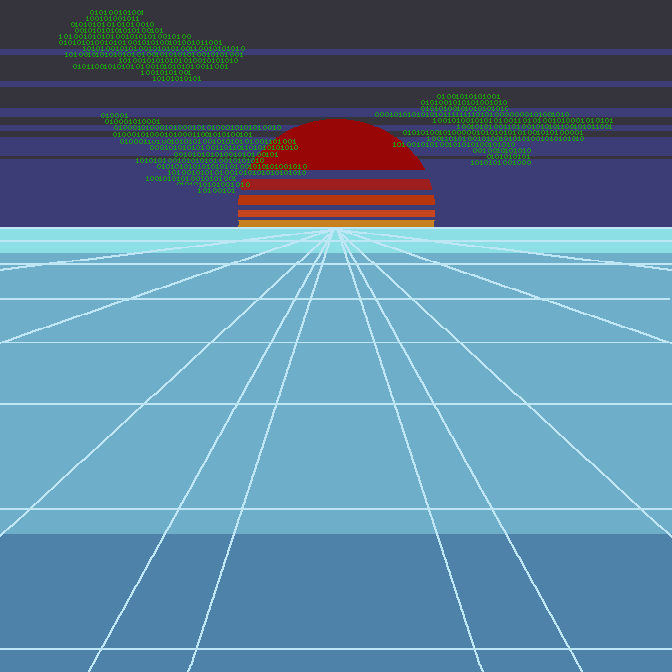
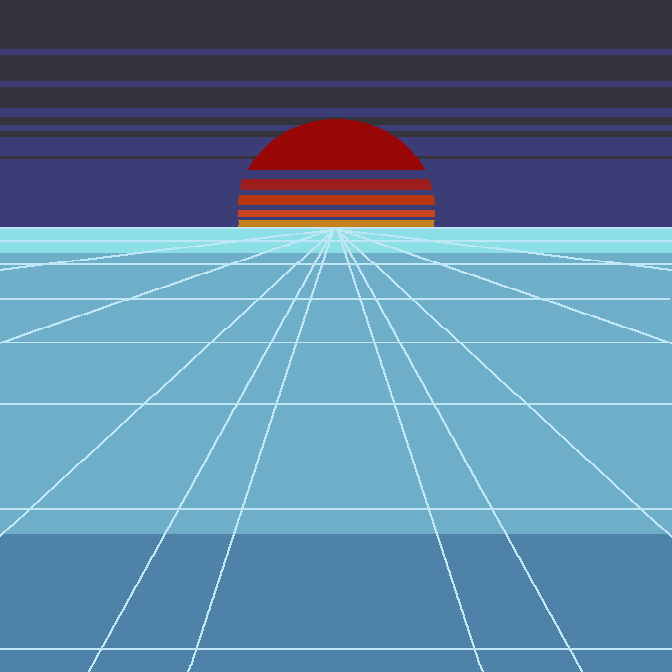
Animação das nuvens adicionada

Changed region(s): [[0.5938, 0.125, 0.9062, 0.25], [0.1562, 0.1562, 0.4375, 0.2812], [0.0938, 0.0, 0.375, 0.125]]

diff --git a/main.py b/main.py
@@ -103,34 +103,39 @@ def main():
     # variavel para nao permitir atirar varias vezes ao mesmo tempo
     cooldown = 0
     # Variavel para controlar se o energético está ativado
-    energy=False
+    energy = False
     # Variavel para controlar o tempo de uso do energético
     timer = 100
-    
+
+    # coordenada x das nuvens
+    clouds_x = 0
+
+    # comprimento da tela
+    width = 672
+
     while True:
         from menu import Screens
         cooldown -= 1  # esfriar o inseticida
-        timer +=1 
+        timer += 1
         for event in pg.event.get():
             if event.type == pg.QUIT:
                 pg.quit()
                 sys.exit()
             #
             if event.type == pg.MOUSEBUTTONDOWN and cooldown <= 0:
-                
+
                 bala = Projectile(player)
                 all_bullets.append(bala)
-                cooldown = bala.cooldown(cooldown,energy)
-                if energy == True and timer>=150:
+                cooldown = bala.cooldown(cooldown, energy)
+                if energy == True and timer >= 150:
                     energy = False
-                    
+
                 spray_sound.play()
             if event.type == pg.KEYDOWN:
-                if event.key == pg.K_SPACE and itens_coletados['energy_drink']>=3:
-                    energy=True
-                    timer=0
-                    itens_coletados['energy_drink']=0
-          
+                if event.key == pg.K_SPACE and itens_coletados['energy_drink'] >= 3:
+                    energy = True
+                    timer = 0
+                    itens_coletados['energy_drink'] = 0
 
         #
         for balas in all_bullets:  # movimento do gas na tela
@@ -138,6 +143,12 @@ def main():
 
         # Faz o background aparecer
         screen.blit(pg.image.load(Path('assets', 'background.png')), (0, 0))
+
+        # Faz a animação das nuvens
+        screen.blit(pg.image.load(Path('assets', 'clouds.png')), (clouds_x, 0))
+        if (clouds_x >= width):
+            clouds_x = -width
+        clouds_x += 3
 
         all_items.draw(screen)
         all_sprites.draw(screen)
@@ -159,7 +170,7 @@ def main():
                     'esquerda': None, 'direita': None, 'em cima': None, 'embaixo': None}
                 bug = Bug(x, y)
                 all_bugs.append(bug)
-        #desenha os bugs e impede a sobreposição dos bugs
+        # desenha os bugs e impede a sobreposição dos bugs
         for um_bug in all_bugs:
             um_bug.trace(screen)
             um_bug.update(player, identificar_posicao_bug)
@@ -175,9 +186,9 @@ def main():
                         um_bug.y += 10
                     elif um_bug.y < i.y:
                         um_bug.y -= 10
-        
-            Bug.vel(um_bug,itens_coletados)
-            live_points.update_vida(player,um_bug)
+
+            Bug.vel(um_bug, itens_coletados)
+            live_points.update_vida(player, um_bug)
 
         # Destruindo os projéteis e os bugs quando entram em colisãoAWW
         remove_bullets = []
@@ -218,7 +229,8 @@ def main():
         text_bugs = font_game.render(
             f'X {itens_coletados["bugs"]}', 1, branco)
         # Pontuação:Um bug  vale 1 ponto e cada bit vale 5 pontos
-        pontos = (itens_coletados["bit_0"] + itens_coletados["bit_1"])*5 + itens_coletados["bugs"]
+        pontos = (
+            itens_coletados["bit_0"] + itens_coletados["bit_1"])*5 + itens_coletados["bugs"]
         text_pontuacao = font_game.render(
             f'Pontuação: {pontos}', 1, branco)
 
@@ -226,19 +238,18 @@ def main():
         screen.blit(pg.transform.scale(pg.image.load(
             Path('assets', 'bug_simples.png')), (40, 35)), (20, 65))
         screen.blit(text_bugs, (70, 75))
-        if itens_coletados['energy_drink']==0:
-          screen.blit(pg.transform.scale(pg.image.load(
-              Path('assets', 'battery-0.png')), (90, 90)), (5, 85))
-        elif itens_coletados['energy_drink']==1:
-          screen.blit(pg.transform.scale(pg.image.load(
-              Path('assets', 'battery-1.png')), (90, 90)), (5, 85))
-        elif itens_coletados['energy_drink']==2:
-          screen.blit(pg.transform.scale(pg.image.load(
-              Path('assets', 'battery-2.png')), (90, 90)), (5, 85))
-        elif itens_coletados['energy_drink']>=3:
-          screen.blit(pg.transform.scale(pg.image.load(
-              Path('assets', 'battery-3.png')), (90, 90)), (5, 85))
-        
+        if itens_coletados['energy_drink'] == 0:
+            screen.blit(pg.transform.scale(pg.image.load(
+                Path('assets', 'battery-0.png')), (90, 90)), (5, 85))
+        elif itens_coletados['energy_drink'] == 1:
+            screen.blit(pg.transform.scale(pg.image.load(
+                Path('assets', 'battery-1.png')), (90, 90)), (5, 85))
+        elif itens_coletados['energy_drink'] == 2:
+            screen.blit(pg.transform.scale(pg.image.load(
+                Path('assets', 'battery-2.png')), (90, 90)), (5, 85))
+        elif itens_coletados['energy_drink'] >= 3:
+            screen.blit(pg.transform.scale(pg.image.load(
+                Path('assets', 'battery-3.png')), (90, 90)), (5, 85))
 
         for balas in all_bullets:  # desenha o projetil gas na tela
             balas.trace(screen)
@@ -252,18 +263,17 @@ def main():
                 item_sound.play()  # Efeito sonoro da coleta de item
                 print(coletado)
                 if coletado == "coffee":
-                    live_points.vida_adicionar(player,i)
-                
-            
+                    live_points.vida_adicionar(player, i)
+
         if Lives.parar_jogo(live_points):
             Screens.error(pontos)
-                    
+
         # Desenha a vida na tela
         live_points.draw()
         pg.display.flip()
         clock.tick(30)
         contador += 1
-        
+
 
 if __name__ == '__main__':
     Screens.menu_screen()
